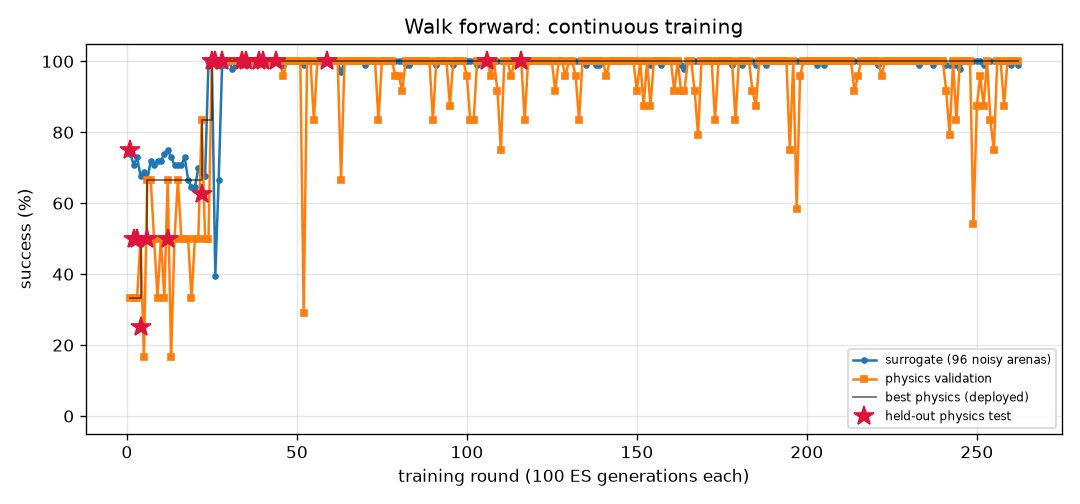
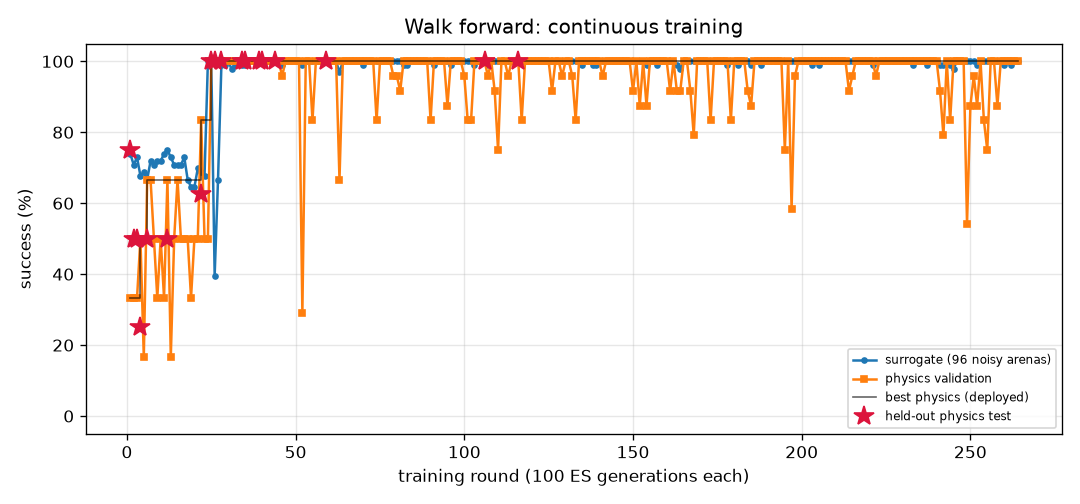
FlyLab: continuous training progress
- walk_forward: optimal, physics val 100% of 24, round 264
- turn: optimal, physics val 100% of 24, round 808
- goto: optimal, physics val 100% of 24, round 215
- odor_seek: optimal, physics val 100% of 24, round 182
- odor_avoid: optimal, physics val 100% of 24, round 740
- light_seek: optimal, physics val 100% of 24, round 412
- light_avoid: optimal, physics val 100% of 24, round 474

diff --git a/projects/09_flylab/training/walk_forward/REPORT.md b/projects/09_flylab/training/walk_forward/REPORT.md
@@ -1,14 +1,14 @@
 # Walk forward (`walk_forward`) — training report
 
-*Auto-generated by `train_brains.py`, last updated 2026-11-02T21:01:41.*
+*Auto-generated by `train_brains.py`, last updated 2026-11-02T22:02:58.*
 
 ![curve](curve.png)
 
 | | |
 |---|---|
-| rounds | 262 |
-| ES generations | 26200 |
-| physics runs | 6302 |
+| rounds | 264 |
+| ES generations | 26400 |
+| physics runs | 6350 |
 | status | **optimal** |
 | best brain | round 116: physics validation **100%** on 24 arenas, surrogate 100% |
 | held-out physics test | **100%** on 32 unseen arenas (95% CI 89%-100%) (errors: [0.13, 0.16, 0.19, 0.16, 0.15, 0.2, 0.17, 0.18, 0.17, 0.19, 0.2, 0.14, 0.17, 0.19, 0.2, 0.2, 0.13, 0.19, 0.16, 0.2, 0.2, 0.16, 0.17, 0.2, 0.13, 0.15, 0.18, 0.14, 0.16, 0.15, 0.19, 0.12]) |
@@ -17,8 +17,6 @@ Physics error per arena: mm from target at the end (< 1.5 and standing still = s
 
 | round | level | gens | sigma | surrogate | physics val | val errors | test | note |
 |---:|---:|---:|---:|---:|---:|---|---:|---|
-| 223 | 3 | 22300 | 0.024 | 100% | 100% | [0.27, 0.24, 0.2, 0.27, 0.24, 0.2, 0.25, 0.24, 0.25, 0.23, 0.19, 0.21, 0.23, 0.2, 0.27, 0.22, 0.27, 0.24, 0.25, 0.26, 0.25, 0.23, 0.21, 0.24] |  |  |
-| 224 | 3 | 22400 | 0.024 | 100% | 100% | [0.3, 0.31, 0.26, 0.3, 0.31, 0.25, 0.31, 0.28, 0.31, 0.3, 0.25, 0.29, 0.27, 0.25, 0.31, 0.29, 0.3, 0.31, 0.28, 0.31, 0.29, 0.3, 0.29, 0.27] |  | restart from best |
 | 225 | 3 | 22500 | 0.024 | 100% | 100% | [0.21, 0.23, 0.16, 0.21, 0.23, 0.15, 0.24, 0.18, 0.24, 0.22, 0.15, 0.21, 0.18, 0.16, 0.22, 0.21, 0.21, 0.23, 0.18, 0.22, 0.19, 0.23, 0.2, 0.18] |  |  |
 | 226 | 3 | 22600 | 0.024 | 100% | 100% | [0.28, 0.37, 0.26, 0.28, 0.37, 0.28, 0.38, 0.25, 0.37, 0.38, 0.28, 0.37, 0.25, 0.28, 0.3, 0.38, 0.26, 0.34, 0.25, 0.31, 0.25, 0.38, 0.36, 0.26] |  |  |
 | 227 | 3 | 22700 | 0.024 | 100% | 100% | [0.21, 0.29, 0.23, 0.21, 0.28, 0.24, 0.3, 0.22, 0.3, 0.34, 0.25, 0.35, 0.22, 0.24, 0.21, 0.35, 0.21, 0.25, 0.23, 0.22, 0.22, 0.35, 0.35, 0.22] |  |  |
@@ -57,3 +55,5 @@ Physics error per arena: mm from target at the end (< 1.5 and standing still = s
 | 260 | 3 | 26000 | 0.024 | 99% | 100% | [0.2, 0.18, 0.23, 0.2, 0.18, 0.23, 0.18, 0.21, 0.18, 0.17, 0.24, 0.16, 0.23, 0.23, 0.2, 0.17, 0.2, 0.18, 0.22, 0.19, 0.23, 0.17, 0.16, 0.23] |  | restart from best |
 | 261 | 3 | 26100 | 0.024 | 100% | 100% | [0.49, 0.46, 0.46, 0.5, 0.46, 0.44, 0.46, 0.48, 0.46, 0.45, 0.42, 0.44, 0.48, 0.44, 0.49, 0.45, 0.5, 0.48, 0.48, 0.49, 0.49, 0.45, 0.44, 0.48] |  |  |
 | 262 | 3 | 26200 | 0.024 | 99% | 100% | [0.4, 0.35, 0.35, 0.4, 0.35, 0.32, 0.35, 0.37, 0.35, 0.32, 0.31, 0.32, 0.37, 0.33, 0.39, 0.32, 0.4, 0.36, 0.38, 0.38, 0.39, 0.32, 0.32, 0.37] |  |  |
+| 263 | 3 | 26300 | 0.025 | 100% | 100% | [0.32, 0.4, 0.24, 0.32, 0.4, 0.25, 0.4, 0.24, 0.39, 0.38, 0.26, 0.33, 0.24, 0.25, 0.36, 0.35, 0.31, 0.4, 0.25, 0.38, 0.26, 0.36, 0.32, 0.24] |  |  |
+| 264 | 3 | 26400 | 0.024 | 100% | 100% | [0.32, 0.36, 0.23, 0.31, 0.36, 0.23, 0.36, 0.26, 0.36, 0.34, 0.22, 0.32, 0.24, 0.23, 0.34, 0.33, 0.3, 0.36, 0.25, 0.35, 0.28, 0.34, 0.31, 0.24] |  | restart from best |

diff --git a/projects/09_flylab/training/goto/REPORT.md b/projects/09_flylab/training/goto/REPORT.md
@@ -1,14 +1,14 @@
 # Go to a location (`goto`) — training report
 
-*Auto-generated by `train_brains.py`, last updated 2026-11-02T01:07:51.*
+*Auto-generated by `train_brains.py`, last updated 2026-11-02T22:16:04.*
 
 ![curve](curve.png)
 
 | | |
 |---|---|
-| rounds | 214 |
-| ES generations | 21400 |
-| physics runs | 5086 |
+| rounds | 215 |
+| ES generations | 21500 |
+| physics runs | 5110 |
 | status | **optimal** |
 | best brain | round 176: physics validation **100%** on 24 arenas, surrogate 100% |
 | held-out physics test | **100%** on 32 unseen arenas (95% CI 89%-100%) (errors: [0.2, 0.32, 0.19, 0.24, 0.18, 0.2, 0.19, 0.17, 0.22, 0.23, 0.23, 0.26, 0.2, 0.19, 0.24, 0.23, 0.22, 0.24, 0.2, 0.22, 0.2, 0.2, 0.26, 0.19, 0.22, 0.18, 0.26, 0.22, 0.2, 0.26, 0.23, 0.23]) |
@@ -17,7 +17,6 @@ Physics error per arena: mm from target at the end (< 1.5 and standing still = s
 
 | round | level | gens | sigma | surrogate | physics val | val errors | test | note |
 |---:|---:|---:|---:|---:|---:|---|---:|---|
-| 175 | 3 | 17500 | 0.026 | 97% | 100% | [0.41, 0.44, 0.44, 0.44, 0.44, 0.41, 0.44, 0.45, 0.45, 0.45, 0.44, 0.43, 0.44, 0.46, 0.44, 0.47, 0.44, 0.41, 0.44, 0.45, 0.46, 0.45, 0.43, 0.43] |  | restart from best |
 | 176 | 3 | 17600 | 0.025 | 100% | 100% | [0.25, 0.25, 0.21, 0.23, 0.19, 0.23, 0.23, 0.25, 0.27, 0.17, 0.2, 0.23, 0.26, 0.22, 0.17, 0.21, 0.25, 0.22, 0.17, 0.23, 0.2, 0.18, 0.27, 0.25] | 100% | new best |
 | 177 | 3 | 17700 | 0.024 | 99% | 100% | [0.49, 0.54, 0.53, 0.47, 0.44, 0.45, 0.52, 0.53, 0.54, 0.45, 0.42, 0.44, 0.55, 0.47, 0.52, 0.54, 0.52, 0.5, 0.44, 0.52, 0.52, 0.43, 0.52, 0.48] |  |  |
 | 178 | 3 | 17800 | 0.025 | 99% | 100% | [0.49, 0.47, 0.47, 0.42, 0.33, 0.39, 0.46, 0.44, 0.49, 0.36, 0.35, 0.41, 0.48, 0.36, 0.41, 0.4, 0.52, 0.4, 0.34, 0.48, 0.39, 0.38, 0.51, 0.41] |  |  |
@@ -57,3 +56,4 @@ Physics error per arena: mm from target at the end (< 1.5 and standing still = s
 | 212 | 3 | 21200 | 0.024 | 100% | 100% | [0.42, 0.46, 0.45, 0.39, 0.36, 0.38, 0.45, 0.42, 0.43, 0.37, 0.36, 0.39, 0.45, 0.37, 0.44, 0.44, 0.44, 0.38, 0.36, 0.43, 0.41, 0.39, 0.43, 0.39] |  | restart from best |
 | 213 | 3 | 21300 | 0.024 | 99% | 100% | [0.59, 0.61, 0.48, 0.6, 0.49, 0.56, 0.59, 0.64, 0.61, 0.49, 0.5, 0.58, 0.58, 0.52, 0.5, 0.58, 0.62, 0.6, 0.5, 0.62, 0.56, 0.51, 0.58, 0.62] |  |  |
 | 214 | 3 | 21400 | 0.025 | 100% | 92% | [0.3, 0.34, 0.31, 0.25, 0.06, 0.14, 0.29, 0.28, 0.27, 0.21, 2.43, 0.26, 0.29, 0.26, 0.3, 0.3, 0.33, 0.35, 2.71, 0.27, 0.21, 0.24, 0.32, 0.24] |  |  |
+| 215 | 3 | 21500 | 0.024 | 99% | 100% | [0.48, 0.45, 0.35, 0.43, 0.34, 0.39, 0.5, 0.42, 0.44, 0.36, 0.38, 0.41, 0.45, 0.32, 0.39, 0.38, 0.48, 0.38, 0.34, 0.45, 0.35, 0.38, 0.47, 0.41] |  |  |

diff --git a/projects/09_flylab/training/light_seek/REPORT.md b/projects/09_flylab/training/light_seek/REPORT.md
@@ -1,14 +1,14 @@
 # Walk toward light (`light_seek`) — training report
 
-*Auto-generated by `train_brains.py`, last updated 2026-11-02T21:02:15.*
+*Auto-generated by `train_brains.py`, last updated 2026-11-02T21:52:34.*
 
 ![curve](curve.png)
 
 | | |
 |---|---|
-| rounds | 411 |
-| ES generations | 41100 |
-| physics runs | 6744 |
+| rounds | 412 |
+| ES generations | 41200 |
+| physics runs | 6768 |
 | status | **optimal** |
 | best brain | round 375: physics validation **100%** on 24 arenas, surrogate 100% |
 | held-out physics test | **100%** on 32 unseen arenas (95% CI 89%-100%) (errors: [0.57, 0.54, 0.53, 0.57, 0.55, 0.56, 0.59, 0.56, 0.53, 0.56, 0.71, 0.56, 0.55, 0.54, 0.53, 0.54, 0.54, 0.55, 0.52, 0.65, 0.64, 0.7, 0.58, 0.57, 0.6, 0.62, 0.55, 0.88, 0.54, 0.52, 0.62, 0.57]) |
@@ -17,7 +17,6 @@ Physics error per arena: mm from target at the end (< 1.5 and standing still = s
 
 | round | level | gens | sigma | surrogate | physics val | val errors | test | note |
 |---:|---:|---:|---:|---:|---:|---|---:|---|
-| 372 | 3 | 37200 | 0.024 | 100% | 100% | [0.65, 0.66, 0.58, 0.59, 0.61, 0.65, 0.63, 0.78, 0.81, 0.65, 0.79, 0.73, 0.72, 0.65, 0.62, 0.61, 0.62, 0.64, 0.61, 0.62, 0.61, 0.83, 0.63, 0.63] |  |  |
 | 373 | 3 | 37300 | 0.024 | 100% | 100% | [0.92, 0.7, 0.85, 0.64, 0.78, 0.73, 0.72, 0.91, 0.58, 0.53, 0.83, 0.98, 0.7, 0.89, 0.89, 0.68, 0.69, 0.9, 0.54, 0.81, 0.58, 0.75, 0.81, 0.79] |  |  |
 | 374 | 3 | 37400 | 0.024 | 100% | 100% | [0.7, 0.83, 0.61, 0.76, 0.65, 0.79, 0.81, 0.69, 0.71, 0.77, 0.74, 0.65, 0.64, 0.66, 0.79, 0.67, 0.74, 0.66, 0.65, 0.66, 0.77, 0.59, 0.67, 0.72] |  |  |
 | 375 | 3 | 37500 | 0.024 | 100% | 100% | [0.6, 0.57, 0.58, 0.53, 0.54, 0.61, 0.57, 0.57, 0.59, 0.56, 0.52, 0.51, 0.52, 0.6, 0.61, 0.52, 0.55, 0.56, 0.6, 0.55, 0.56, 0.59, 0.5, 0.55] | 100% | new best |
@@ -57,3 +56,4 @@ Physics error per arena: mm from target at the end (< 1.5 and standing still = s
 | 409 | 3 | 40900 | 0.024 | 100% | 100% | [0.75, 0.51, 0.58, 0.81, 0.61, 0.62, 0.64, 0.7, 0.66, 0.79, 0.55, 0.61, 0.58, 0.64, 0.68, 0.62, 0.62, 0.56, 0.55, 0.6, 0.72, 0.69, 0.61, 0.74] |  |  |
 | 410 | 3 | 41000 | 0.024 | 100% | 100% | [0.69, 0.61, 0.71, 0.69, 0.63, 0.71, 0.68, 0.69, 0.68, 0.61, 0.74, 0.67, 0.68, 0.68, 0.82, 0.6, 0.66, 0.69, 0.61, 0.75, 0.71, 0.74, 0.68, 0.68] |  |  |
 | 411 | 3 | 41100 | 0.024 | 100% | 100% | [0.54, 0.62, 0.55, 1.15, 0.59, 0.58, 0.56, 0.63, 0.62, 0.6, 0.82, 0.6, 0.49, 0.57, 0.62, 0.51, 0.54, 0.53, 0.64, 0.52, 0.62, 0.69, 0.55, 0.75] |  | restart from best |
+| 412 | 3 | 41200 | 0.024 | 100% | 92% | [0.63, 0.61, 0.93, 1.04, 0.59, 0.56, 0.54, 0.57, 0.56, 0.6, 1.97, 0.58, 0.67, 0.55, 1.62, 0.79, 0.67, 0.58, 0.56, 0.58, 0.56, 0.62, 0.54, 0.63] |  |  |

diff --git a/projects/09_flylab/training/TRAINING.md b/projects/09_flylab/training/TRAINING.md
@@ -1,15 +1,15 @@
 # FlyLab brains — continuous training log
 
-*Auto-generated by `train_brains.py`, last updated 2026-11-02T21:02:15.*
+*Auto-generated by `train_brains.py`, last updated 2026-11-02T22:16:04.*
 
 Every skill has its own brain and its own training process: surrogate ES rounds, physics validation in MuJoCo, keep-the-best selection, and a held-out physics test that is never used for selection. See each skill's report for its full round-by-round history. Mastery is progressive: passing a level (100% physics validation, >=95% surrogate) doubles the validation and test arena sets; a brain is **optimal** once it holds up at level 3 (>=95% of 24 validation arenas) AND scores >=90% on the 32 held-out test arenas. Test columns show 95% Wilson confidence intervals.
 
 | skill | rounds | ES generations | physics runs | surrogate | physics val | **physics test** | status |
 |---|---:|---:|---:|---:|---:|---:|---|
-| [Walk forward](walk_forward/REPORT.md) | 262 | 26200 | 6302 | 100% | 100% of 24 | 100% of 32 (CI 89-100%) | **optimal** |
+| [Walk forward](walk_forward/REPORT.md) | 264 | 26400 | 6350 | 100% | 100% of 24 | 100% of 32 (CI 89-100%) | **optimal** |
 | [Turn in place](turn/REPORT.md) | 808 | 80800 | 19638 | 100% | 100% of 24 | 97% of 32 (CI 84-99%) | **optimal** |
-| [Go to a location](goto/REPORT.md) | 214 | 21400 | 5086 | 100% | 100% of 24 | 100% of 32 (CI 89-100%) | **optimal** |
+| [Go to a location](goto/REPORT.md) | 215 | 21500 | 5110 | 100% | 100% of 24 | 100% of 32 (CI 89-100%) | **optimal** |
 | [Find food by smell](odor_seek/REPORT.md) | 182 | 18200 | 3798 | 100% | 100% of 24 | 100% of 32 (CI 89-100%) | **optimal** |
 | [Escape a bad smell](odor_avoid/REPORT.md) | 740 | 74000 | 15066 | 97% | 100% of 24 | 97% of 32 (CI 84-99%) | **optimal** |
-| [Walk toward light](light_seek/REPORT.md) | 411 | 41100 | 6744 | 100% | 100% of 24 | 100% of 32 (CI 89-100%) | **optimal** |
+| [Walk toward light](light_seek/REPORT.md) | 412 | 41200 | 6768 | 100% | 100% of 24 | 100% of 32 (CI 89-100%) | **optimal** |
 | [Hide from light](light_avoid/REPORT.md) | 474 | 47400 | 11648 | 100% | 100% of 24 | 100% of 32 (CI 89-100%) | **optimal** |
